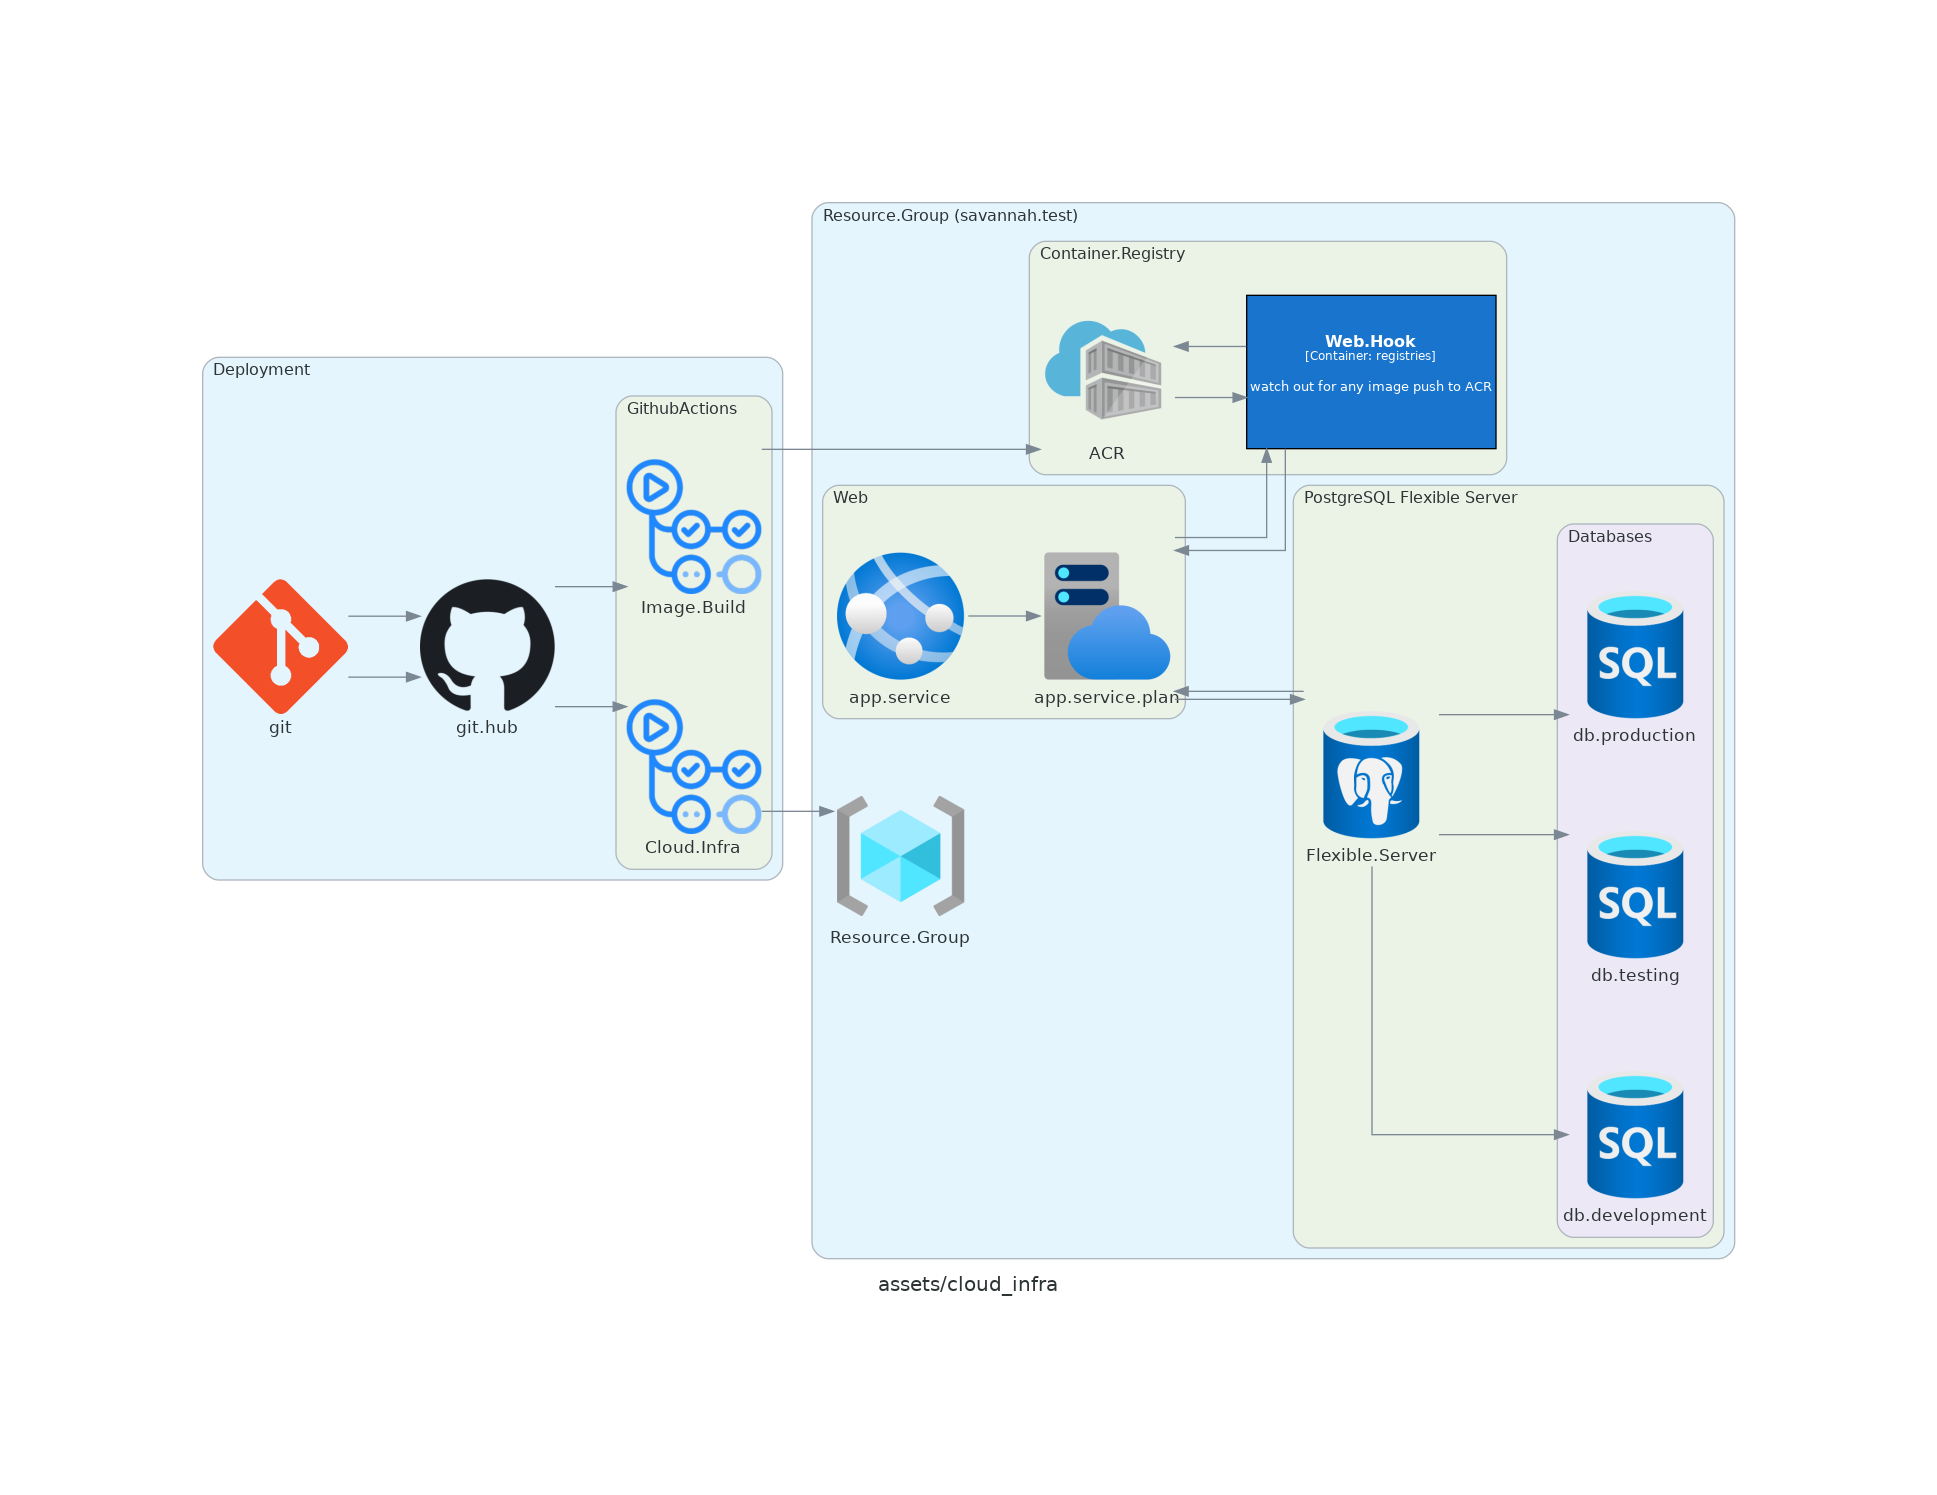
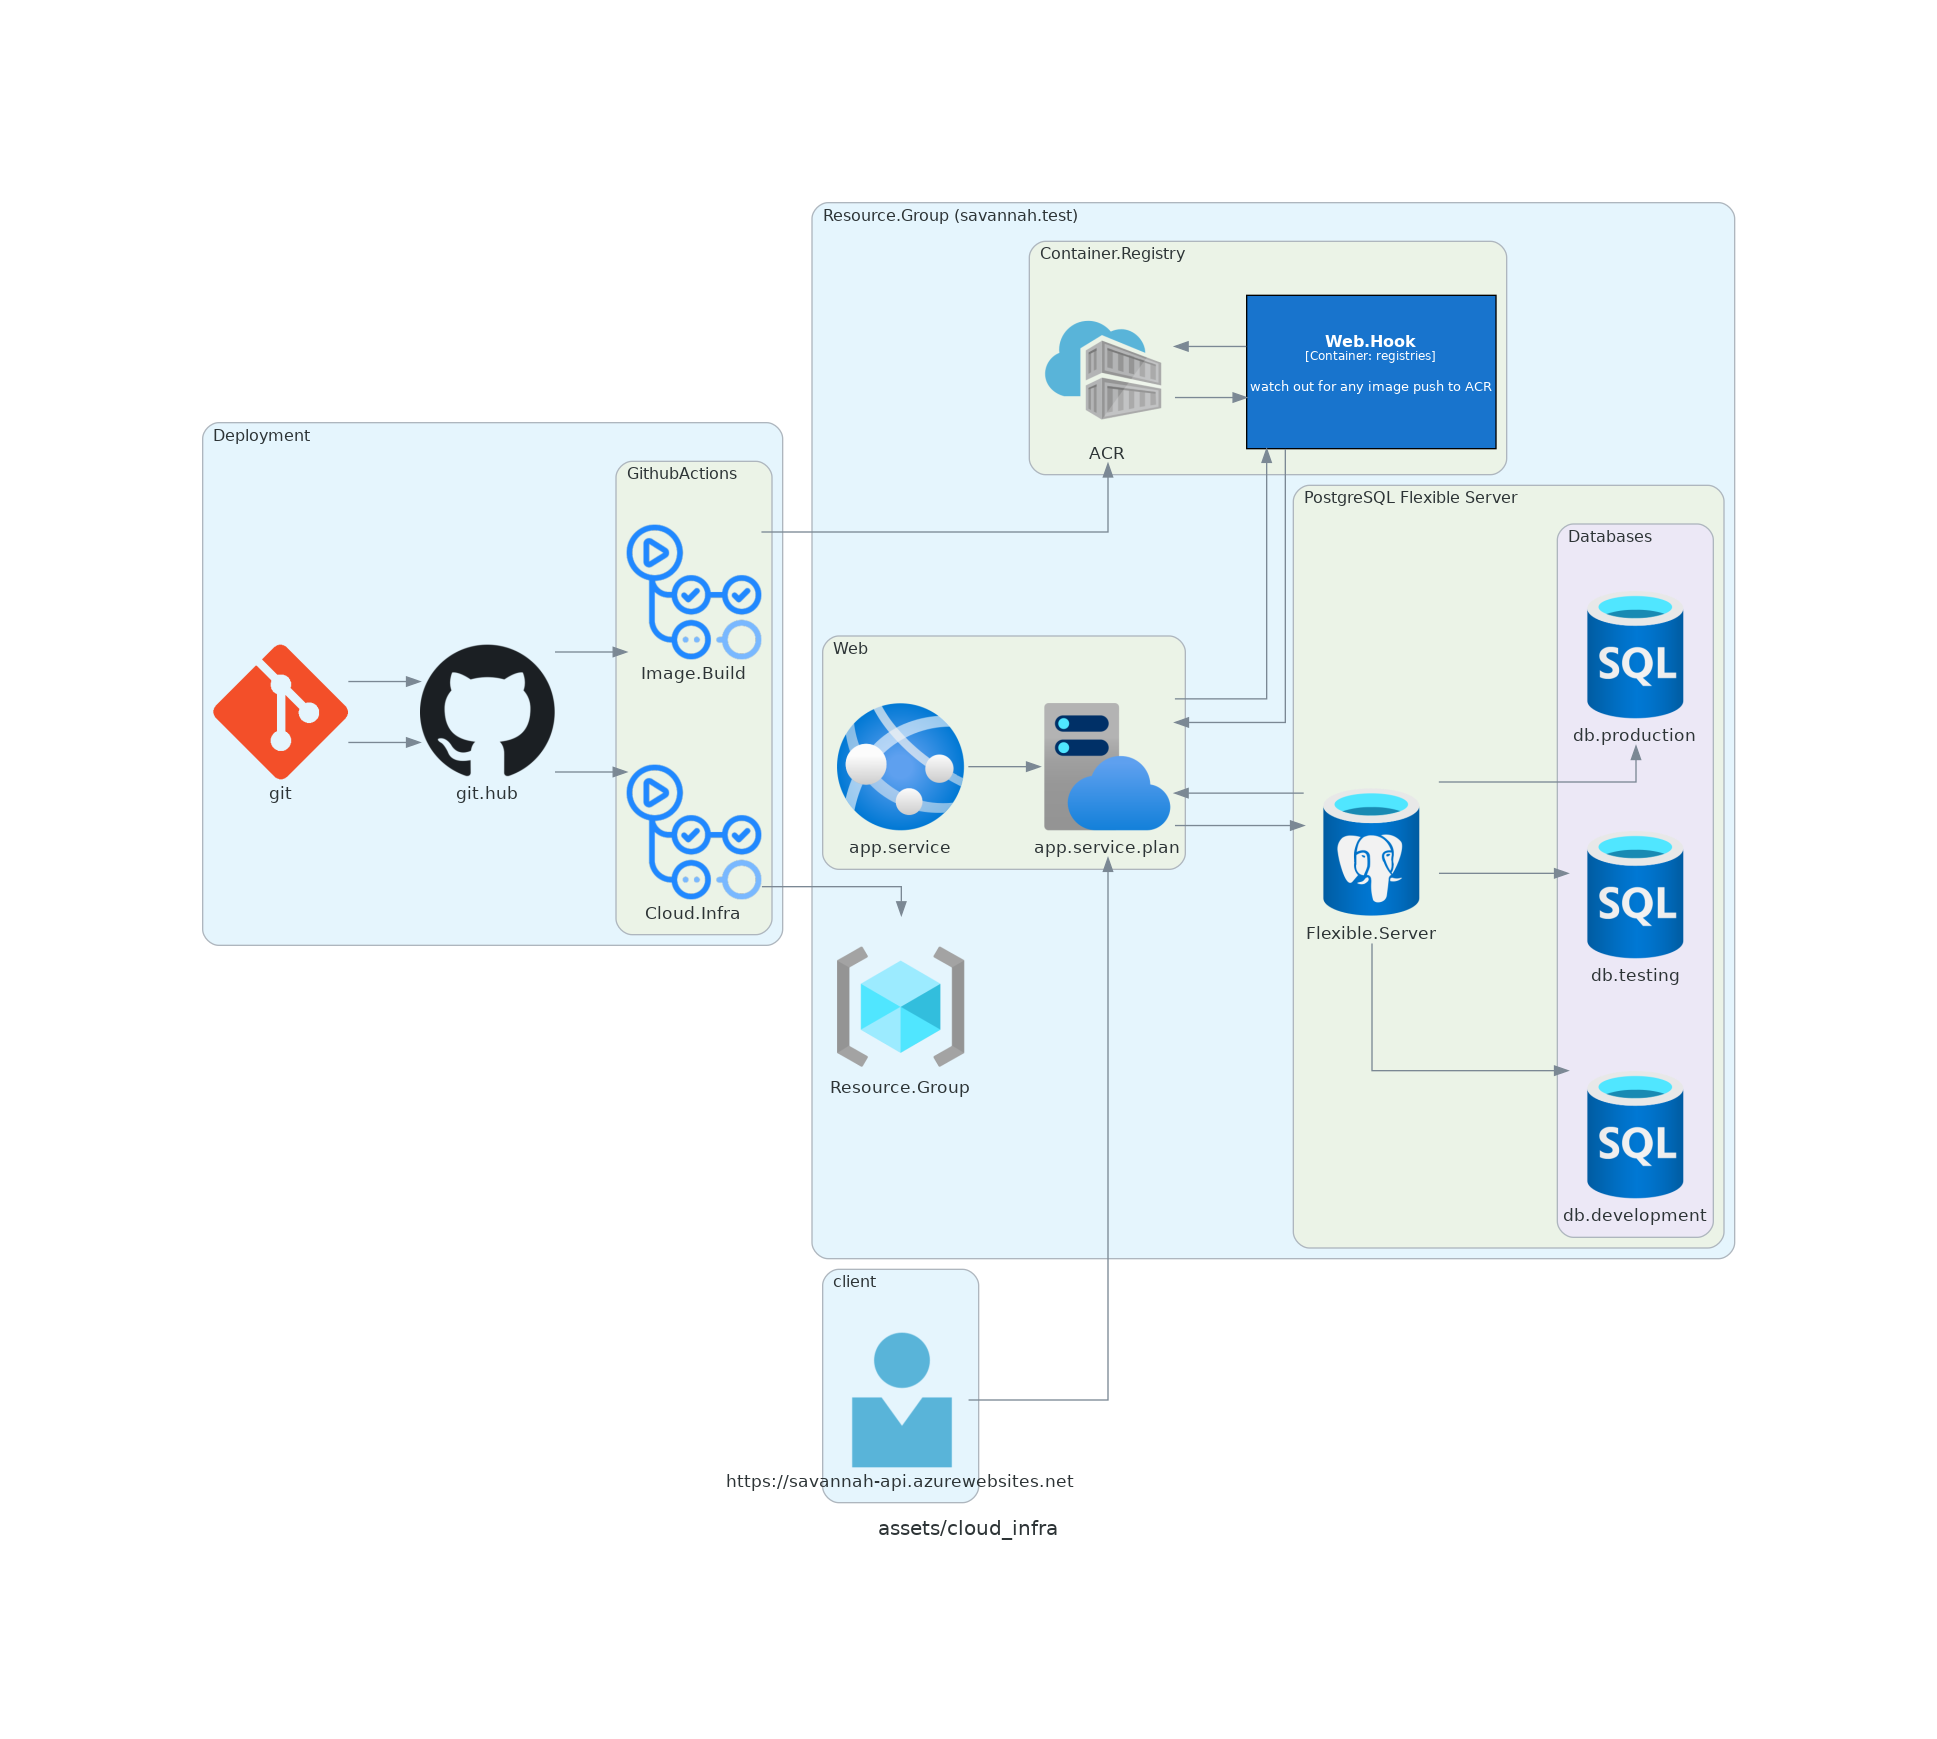
update: added client diagram for docs

diff --git a/diagram.as.code/architecture.py b/diagram.as.code/architecture.py
@@ -7,7 +7,7 @@ from diagrams.c4 import Container
 from diagrams.azure.general import Resourcegroups
 from diagrams.onprem.vcs import Git, Github
 from diagrams.onprem.ci import GithubActions
-
+from diagrams.azure.general import Usericon
 
 
 with Diagram('assets/cloud_infra', show=False):
@@ -16,7 +16,7 @@ with Diagram('assets/cloud_infra', show=False):
     '''
     with Cluster('Resource.Group (savannah.test)'):
         resource_group = Resourcegroups('Resource.Group')
-        with Cluster('Web') as web:
+        with Cluster('Web'):
             app_service =[
                 
                 AppServices('app.service') >> AppServicePlans('app.service.plan')
@@ -64,6 +64,11 @@ with Diagram('assets/cloud_infra', show=False):
             cloud >> resource_group
         git >> git_hub >> cloud
         git >> git_hub >> image
+    
+    with Cluster('client'):
+        url = Usericon('https://savannah-api.azurewebsites.net')
+        url >> app_service
+
 
 
 
